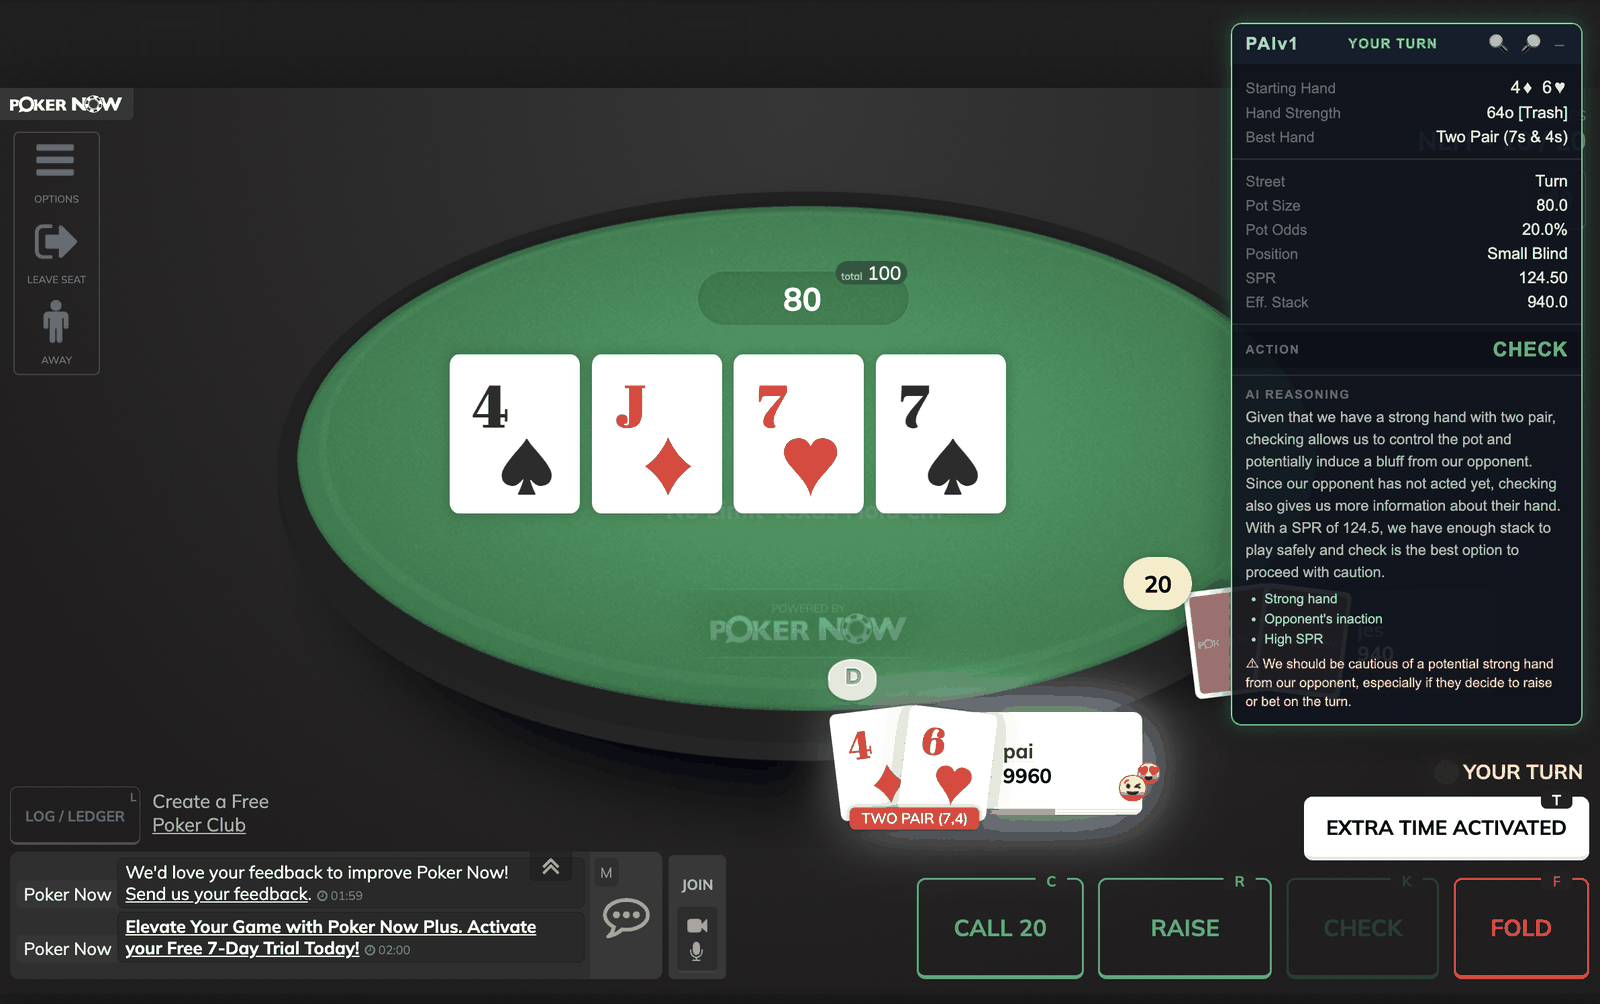
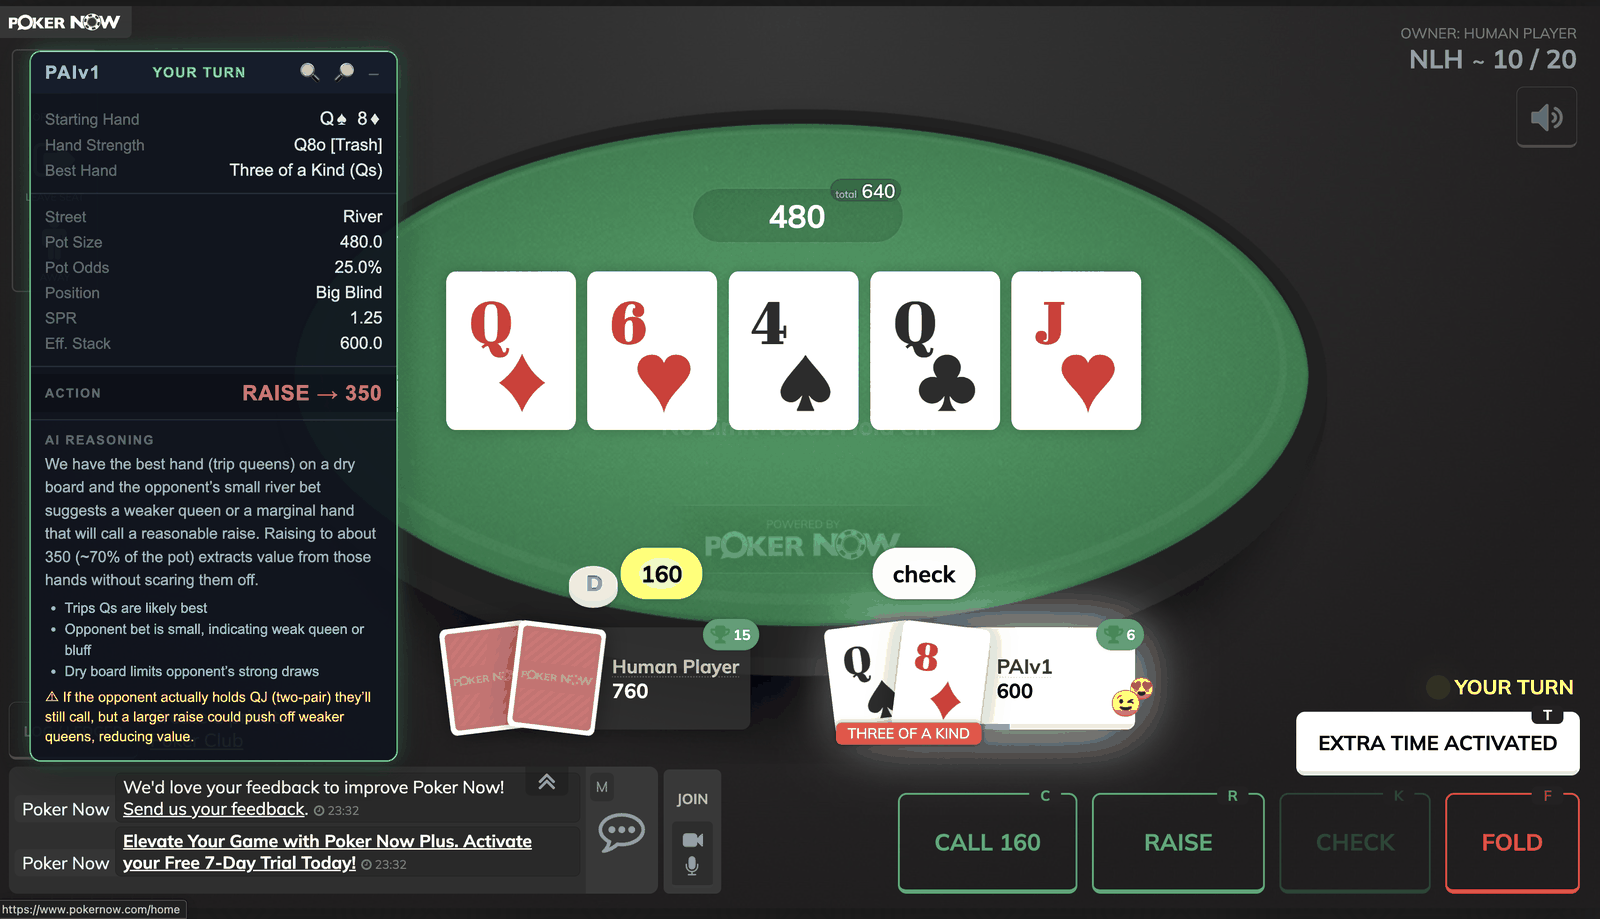
Swap in a river screenshot taken on the current code
The previous image captured the pre-fix behaviour: it recommended Check while
facing a bet of 20, with the Check button greyed out. This one shows trip
queens on the river facing a 160 bet, with a Raise to 350 and the sizing
rationale, so the README demonstrates what the tool actually does now.

diff --git a/README.md b/README.md
@@ -1,6 +1,6 @@
 # PAIv1
 
-![PAIv1 overlay during a live PokerNow hand](docs/overlay.png)
+![PAIv1 overlay recommending a river raise during a live PokerNow hand](docs/overlay.png)
 
 PAIv1 is a real-time poker assistant for [PokerNow](https://www.pokernow.club).
 It reads the live table straight out of the browser, works out where you stand, and shows a recommended action in a floating overlay along with the reasoning behind it.
